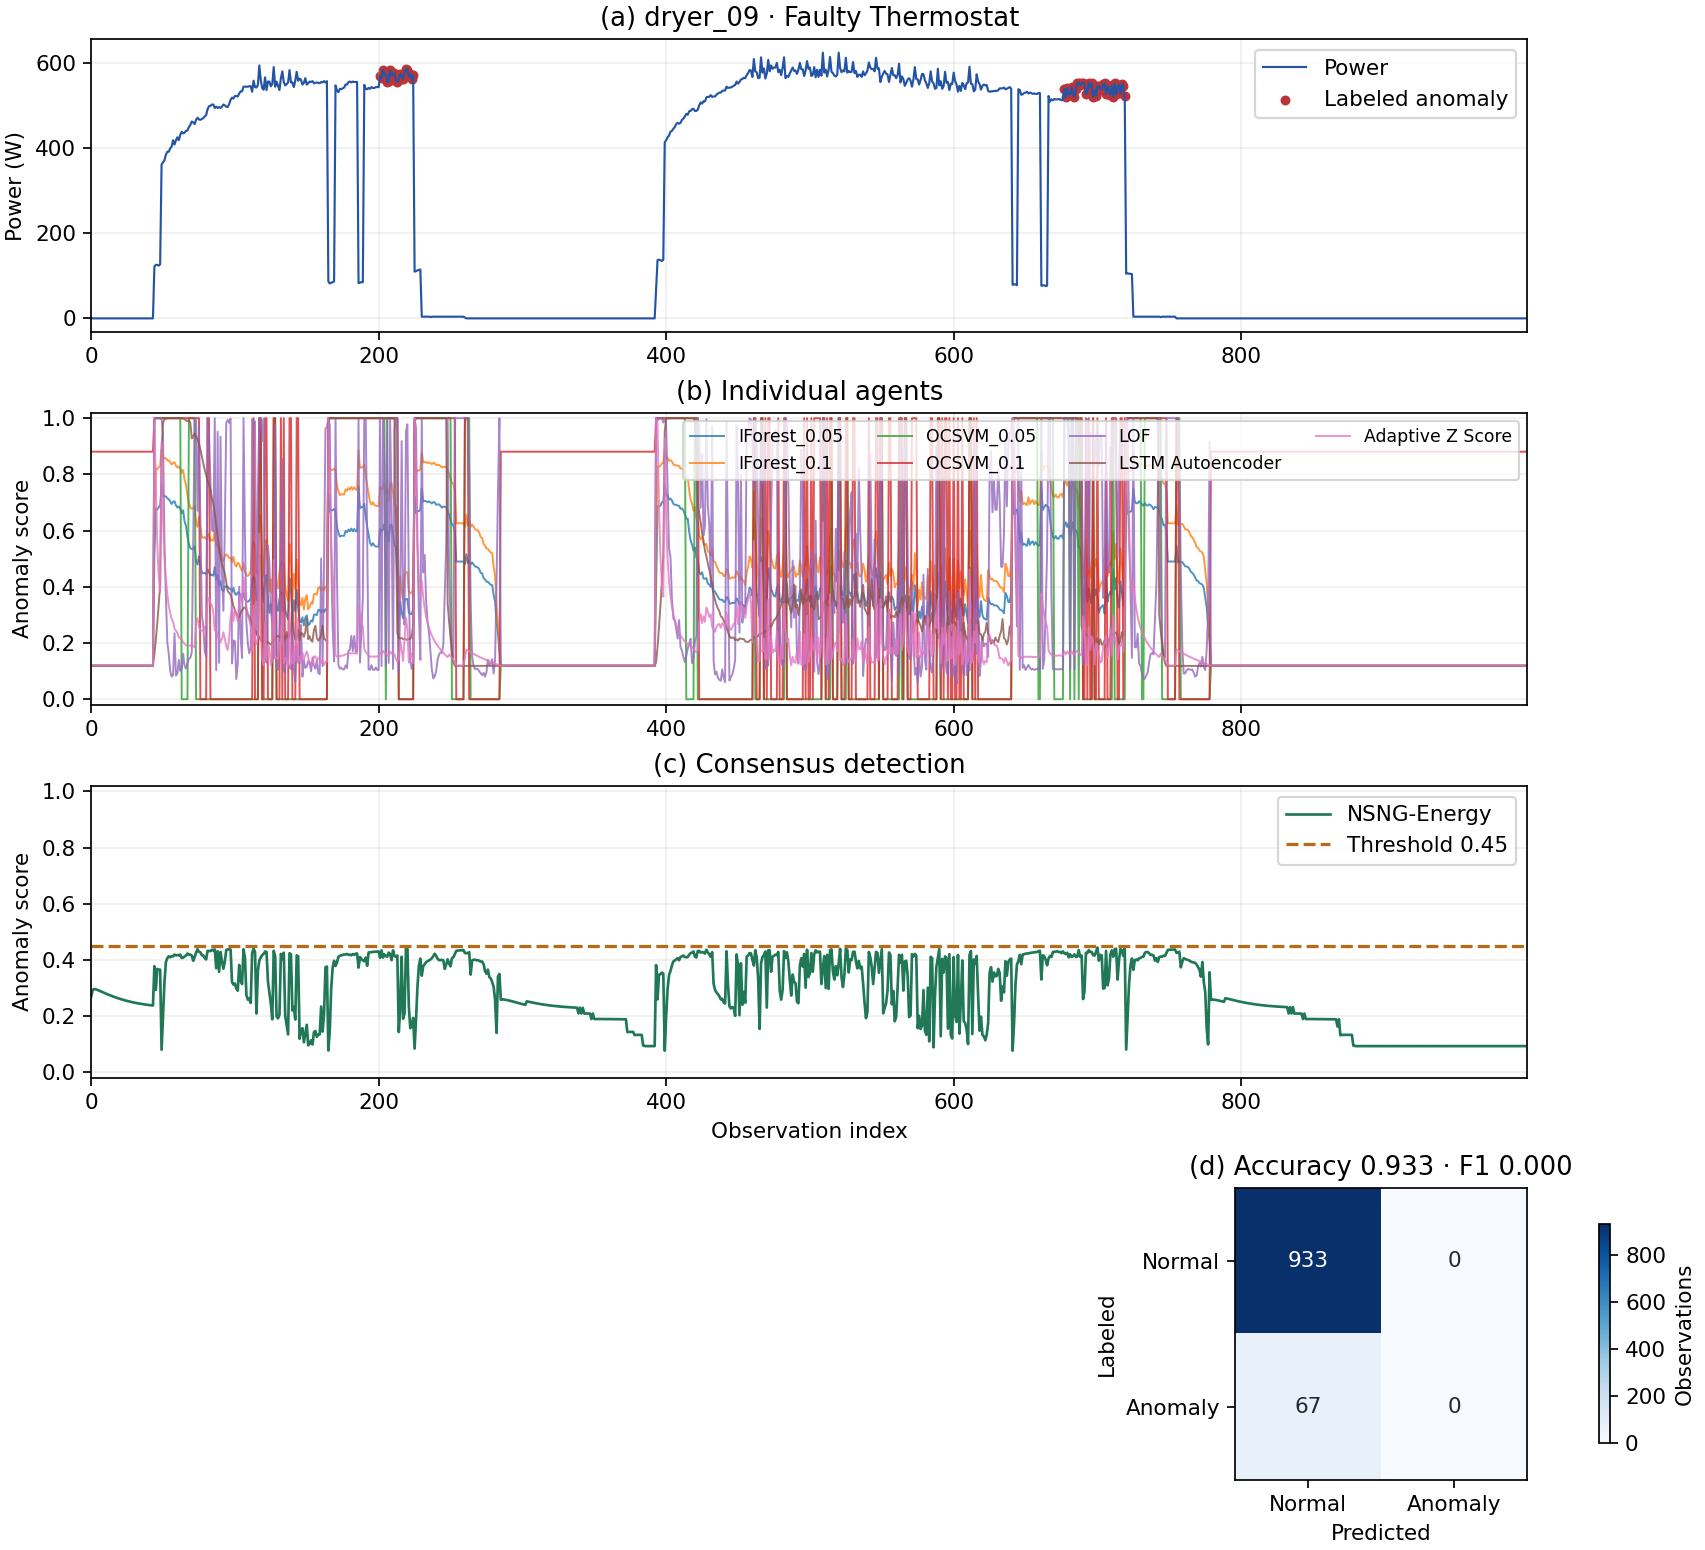
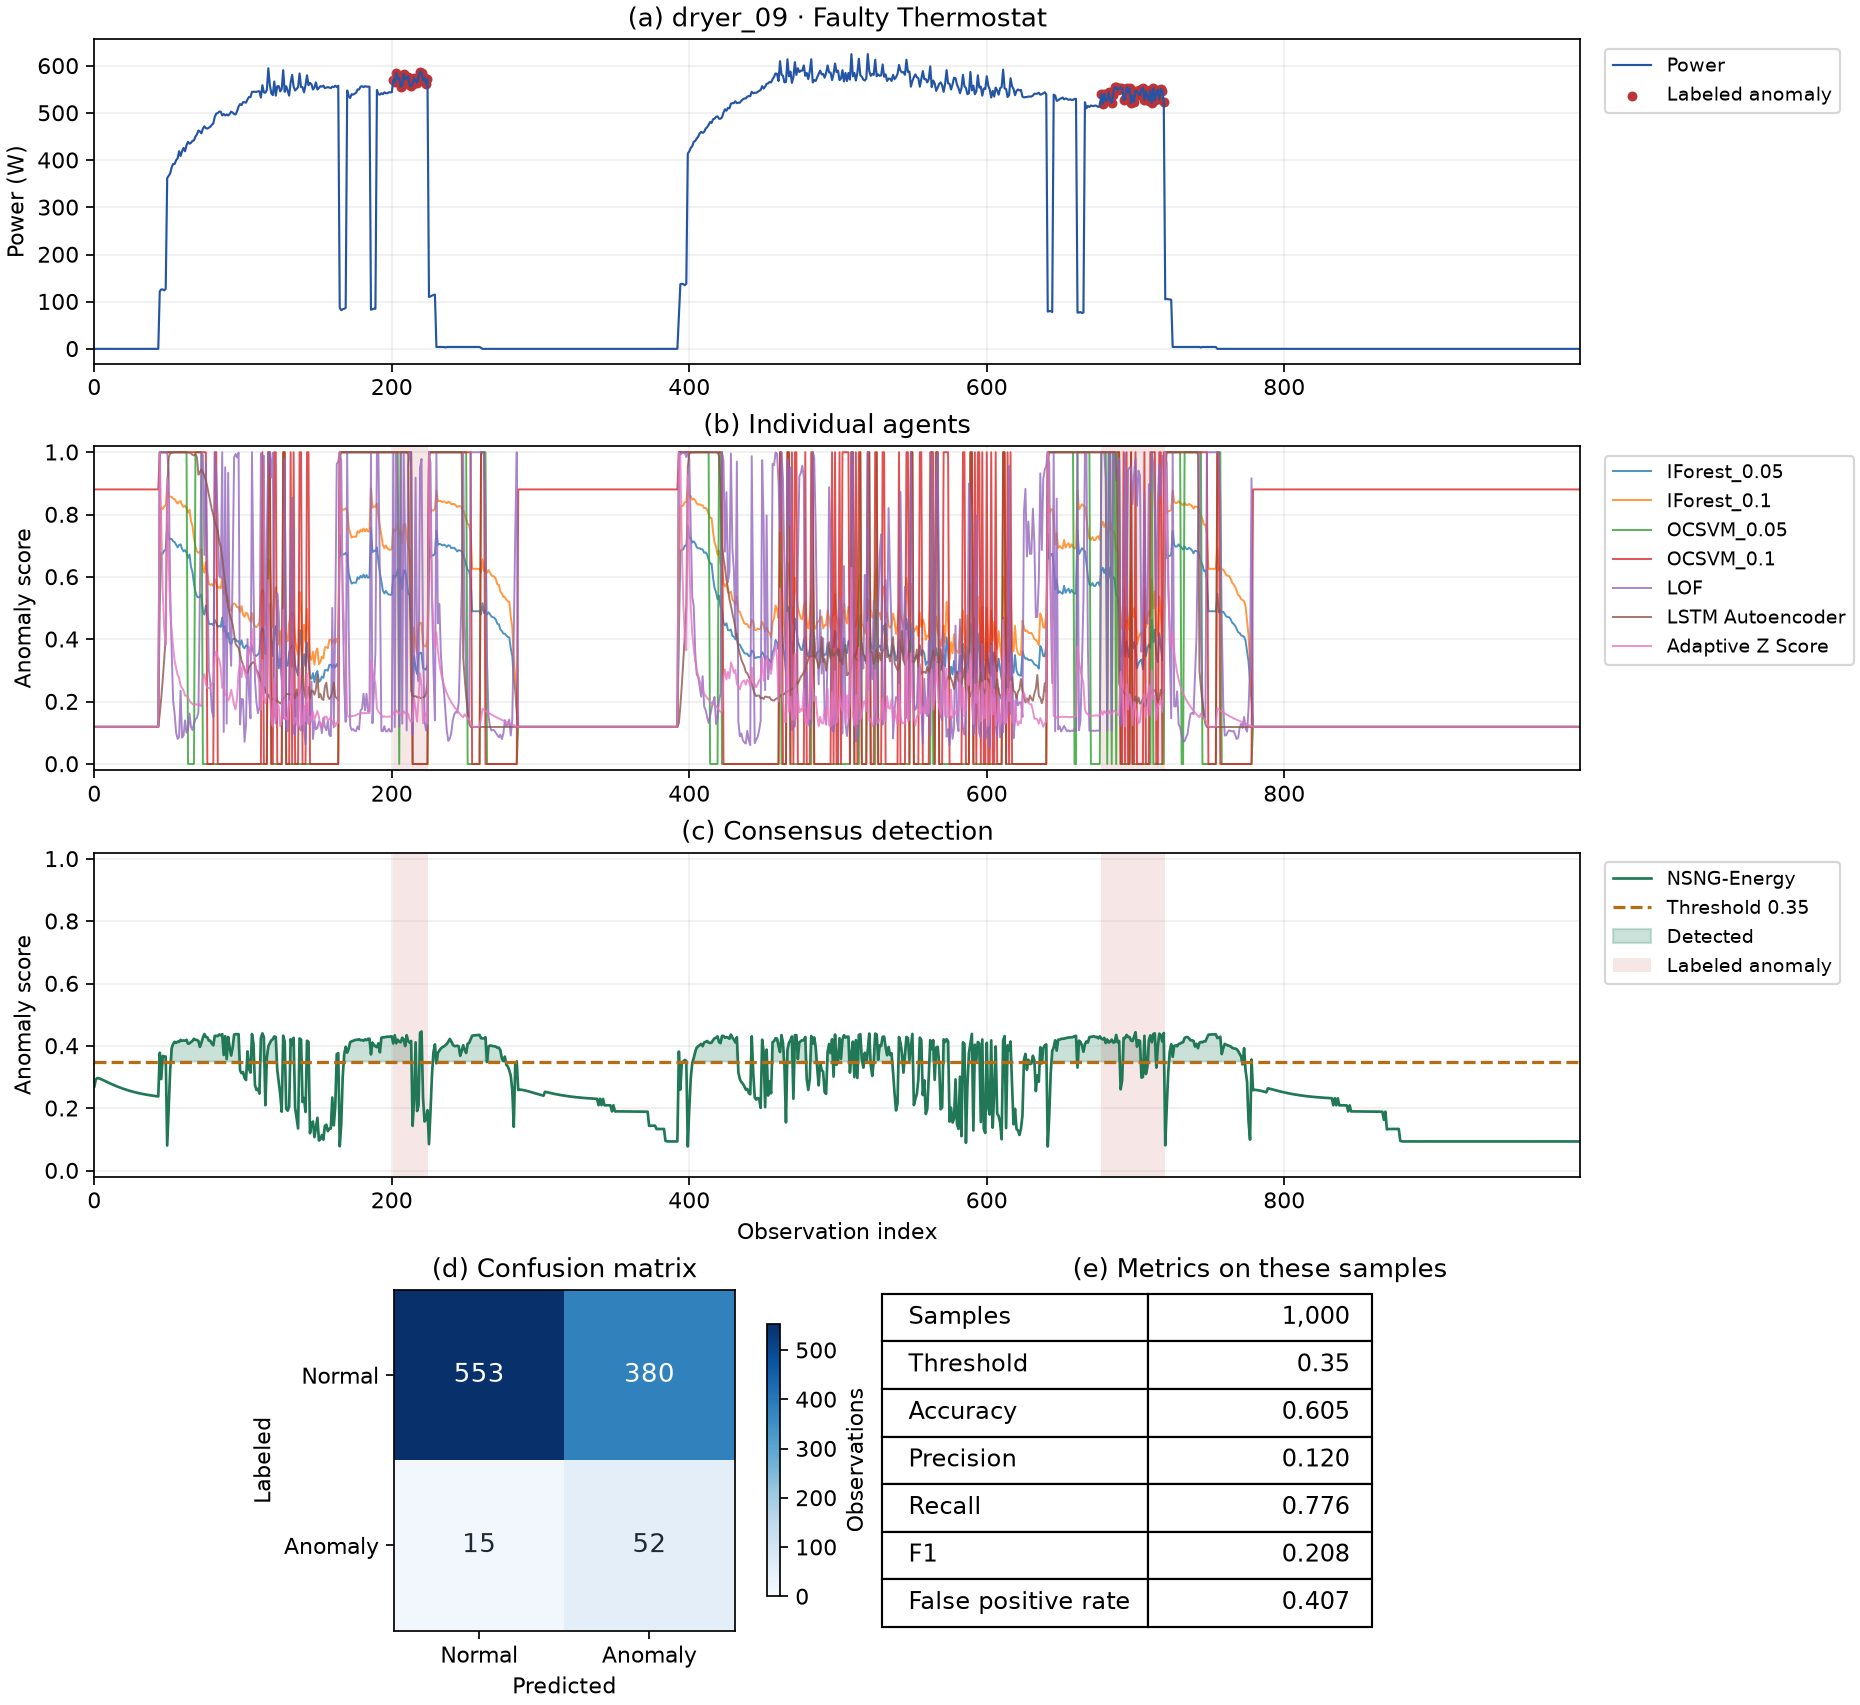
Draw Figure 1 at the best grid threshold with labeled anomaly spans and a metrics panel

diff --git a/nsng_energy/artifacts.py b/nsng_energy/artifacts.py
@@ -85,44 +85,73 @@ def export_consensus(path: Path, sequences, full, trace_files) -> None:
                 })
 
 
-def plot_detection(path: Path, sequence: Sequence, frame: pd.DataFrame, beliefs: np.ndarray) -> dict:
+def _anomaly_spans(labels: np.ndarray) -> list[tuple[int, int]]:
+    edges = np.flatnonzero(np.diff(np.r_[0, labels.astype(int), 0]))
+    return list(zip(edges[::2], edges[1::2]))
+
+
+def plot_detection(path: Path, sequence: Sequence, frame: pd.DataFrame, beliefs: np.ndarray,
+                   threshold: float) -> dict:
+    """Figure 1 on the first 1,000 samples, at the best grid threshold used for every reported metric."""
     limit = min(1000, len(sequence.power))
     x = np.arange(limit)
-    threshold = 0.45
     labels = sequence.labels[:limit]
     scores = frame["score"].to_numpy()[:limit]
     predicted = scores > threshold
     confusion = counts(labels, predicted)
     metrics = classification(confusion)
-    figure, axes = plt.subplots(4, 1, figsize=(11, 10), layout="constrained")
+
+    figure = plt.figure(figsize=(12, 11), layout="constrained")
+    grid = figure.add_gridspec(4, 2, height_ratios=[1, 1, 1, 1.05], width_ratios=[1, 1])
+    axes = [figure.add_subplot(grid[row, :]) for row in range(3)]
+    matrix_axis, text_axis = figure.add_subplot(grid[3, 0]), figure.add_subplot(grid[3, 1])
+    spans = _anomaly_spans(labels)
+
     axes[0].plot(x, sequence.power[:limit], c="#2455a5", lw=1.0, label="Power")
     anomaly = labels == 1
     axes[0].scatter(x[anomaly], sequence.power[:limit][anomaly], s=13, c="#bb3437", label="Labeled anomaly")
     axes[0].set(title=f"(a) {sequence.name} · {sequence.fault.replace('_', ' ')}", ylabel="Power (W)")
-    axes[0].legend(loc="upper right")
+    axes[0].legend(loc="upper left", bbox_to_anchor=(1.01, 1), fontsize=9)
     for name, agent in zip(NAMES, beliefs[:limit].T):
         axes[1].plot(x, agent, lw=0.9, alpha=0.8, label=name)
     axes[1].set(title="(b) Individual agents", ylabel="Anomaly score")
-    axes[1].legend(ncol=4, loc="upper right", fontsize=8)
+    axes[1].legend(loc="upper left", bbox_to_anchor=(1.01, 1), fontsize=9)
     axes[2].plot(x, scores, c="#207856", lw=1.25, label="NSNG-Energy")
-    axes[2].axhline(threshold, c="#b66c14", linestyle="--", label="Threshold 0.45")
-    axes[2].fill_between(x, threshold, scores, where=predicted, color="#65a991", alpha=0.3)
+    axes[2].axhline(threshold, c="#b66c14", linestyle="--", label=f"Threshold {threshold:.2f}")
+    axes[2].fill_between(x, threshold, scores, where=predicted, color="#65a991", alpha=0.35,
+                         label="Detected")
     axes[2].set(title="(c) Consensus detection", ylabel="Anomaly score", xlabel="Observation index")
-    axes[2].legend(loc="upper right")
-    for ax in axes[:3]:
+    for ax in axes[1:]:
+        for first, last in spans:
+            ax.axvspan(first - 0.5, last - 0.5, color="#bb3437", alpha=0.12, lw=0)
+    axes[2].axvspan(np.nan, np.nan, color="#bb3437", alpha=0.12, lw=0, label="Labeled anomaly")
+    axes[2].legend(loc="upper left", bbox_to_anchor=(1.01, 1), fontsize=9)
+    for ax in axes:
         ax.set_xlim(x[0], max(x[-1], 1))
         ax.grid(alpha=0.2)
     axes[1].set_ylim(-0.02, 1.02)
     axes[2].set_ylim(-0.02, 1.02)
+
     matrix = confusion.reshape(2, 2)
-    image = axes[3].imshow(matrix, cmap="Blues", vmin=0)
+    image = matrix_axis.imshow(matrix, cmap="Blues", vmin=0)
     for i, j in np.ndindex(matrix.shape):
         color = "white" if matrix[i, j] > matrix.max() / 2 else "#202830"
-        axes[3].text(j, i, f"{matrix[i, j]:,}", ha="center", va="center", color=color)
-    axes[3].set(xticks=[0, 1], yticks=[0, 1], xticklabels=["Normal", "Anomaly"],
-                yticklabels=["Normal", "Anomaly"], xlabel="Predicted", ylabel="Labeled",
-                title=f"(d) Accuracy {metrics['accuracy']:.3f} · F1 {metrics['f1']:.3f}")
-    figure.colorbar(image, ax=axes[3], shrink=0.75, label="Observations")
+        matrix_axis.text(j, i, f"{matrix[i, j]:,}", ha="center", va="center", color=color, fontsize=12)
+    matrix_axis.set(xticks=[0, 1], yticks=[0, 1], xticklabels=["Normal", "Anomaly"],
+                    yticklabels=["Normal", "Anomaly"], xlabel="Predicted", ylabel="Labeled",
+                    title="(d) Confusion matrix")
+    figure.colorbar(image, ax=matrix_axis, shrink=0.8, label="Observations")
+    text_axis.axis("off")
+    rows = [("Samples", f"{limit:,}"), ("Threshold", f"{threshold:.2f}"),
+            ("Accuracy", f"{metrics['accuracy']:.3f}"), ("Precision", f"{metrics['precision']:.3f}"),
+            ("Recall", f"{metrics['recall']:.3f}"), ("F1", f"{metrics['f1']:.3f}"),
+            ("False positive rate", f"{metrics['false_positive_rate']:.3f}")]
+    table = text_axis.table(cellText=[[value] for _, value in rows], rowLabels=[name for name, _ in rows],
+                            colWidths=[0.35], loc="center")
+    table.auto_set_font_size(False)
+    table.set_fontsize(11)
+    table.scale(1, 1.6)
+    text_axis.set_title("(e) Metrics on these samples")
     figure.savefig(path, dpi=155)
     plt.close(figure)
     return {

diff --git a/nsng_energy/experiment.py b/nsng_energy/experiment.py
@@ -374,6 +374,7 @@ def run(args):
     figure = next(sequence for sequence in sequences if sequence.name == figure_name)
     figure_metrics = plot_detection(
         output / "figure_1.png", figure, full_scores[full_scores["sequence"] == figure_name], belief_for_figure,
+        float(full_row["threshold"]),
     )
     write_json(output / "figure_1_metrics.json", figure_metrics)
     latency = _latency(negotiation_timing, agent_timing, args.jobs)
@@ -487,7 +488,8 @@ def _paper_comparison(path, summary, table, figure_metrics, latency):
         add("Table V", "method" if name == FULL else "component", name, values)
     for (axis, value), values in paper.SENSITIVITY.items():
         add("Section V.I", axis, value, values, f"{axis}={value}")
-    rows += [{"section": "Figure 1", "configuration": "first 1,000 samples at 0.45", "metric": metric,
+    rows += [{"section": "Figure 1", "configuration": f"first 1,000 samples (paper at 0.45, reproduced at "
+                                                        f"{figure_metrics['threshold']:.2f})", "metric": metric,
               "paper": published, "reproduced": figure_metrics[metric]}
              for metric, published in paper.FIGURE_1.items() if metric not in ("threshold", "samples")]
     rows.append({"section": "Table VI", "configuration": FULL, "metric": "ms_per_sample",
